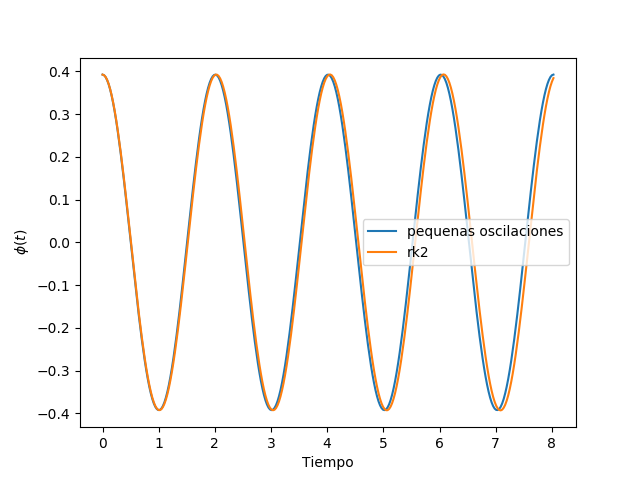
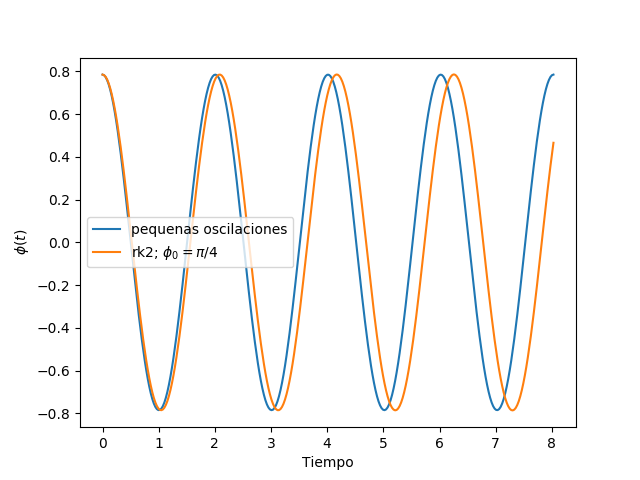
prueba oscilaciones mas grandes

diff --git a/rk2.py b/rk2.py
@@ -11,7 +11,7 @@ g = 9.8
 l = 1.0
 
 # Condiciones de borde
-phi_0 = np.pi / 8
+phi_0 = np.pi / 4
 w_0 = 0
 
 
@@ -64,7 +64,7 @@ for i in range(1, len(t)):
     y_solucion[i] = rk2_paso(f_pendulo, t[i-1],
                              y_solucion[i-1], h)
 
-plt.plot(t, y_solucion[:,0], label='rk2')
+plt.plot(t, y_solucion[:,0], label='rk2; $\phi_0=\pi/4$')
 
 
 
@@ -72,4 +72,4 @@ plt.xlabel('Tiempo')
 plt.ylabel('$\phi(t)$')
 plt.legend()
 plt.savefig('rk2_pequenas_osc.png')
-#plt.show()
+plt.show()
